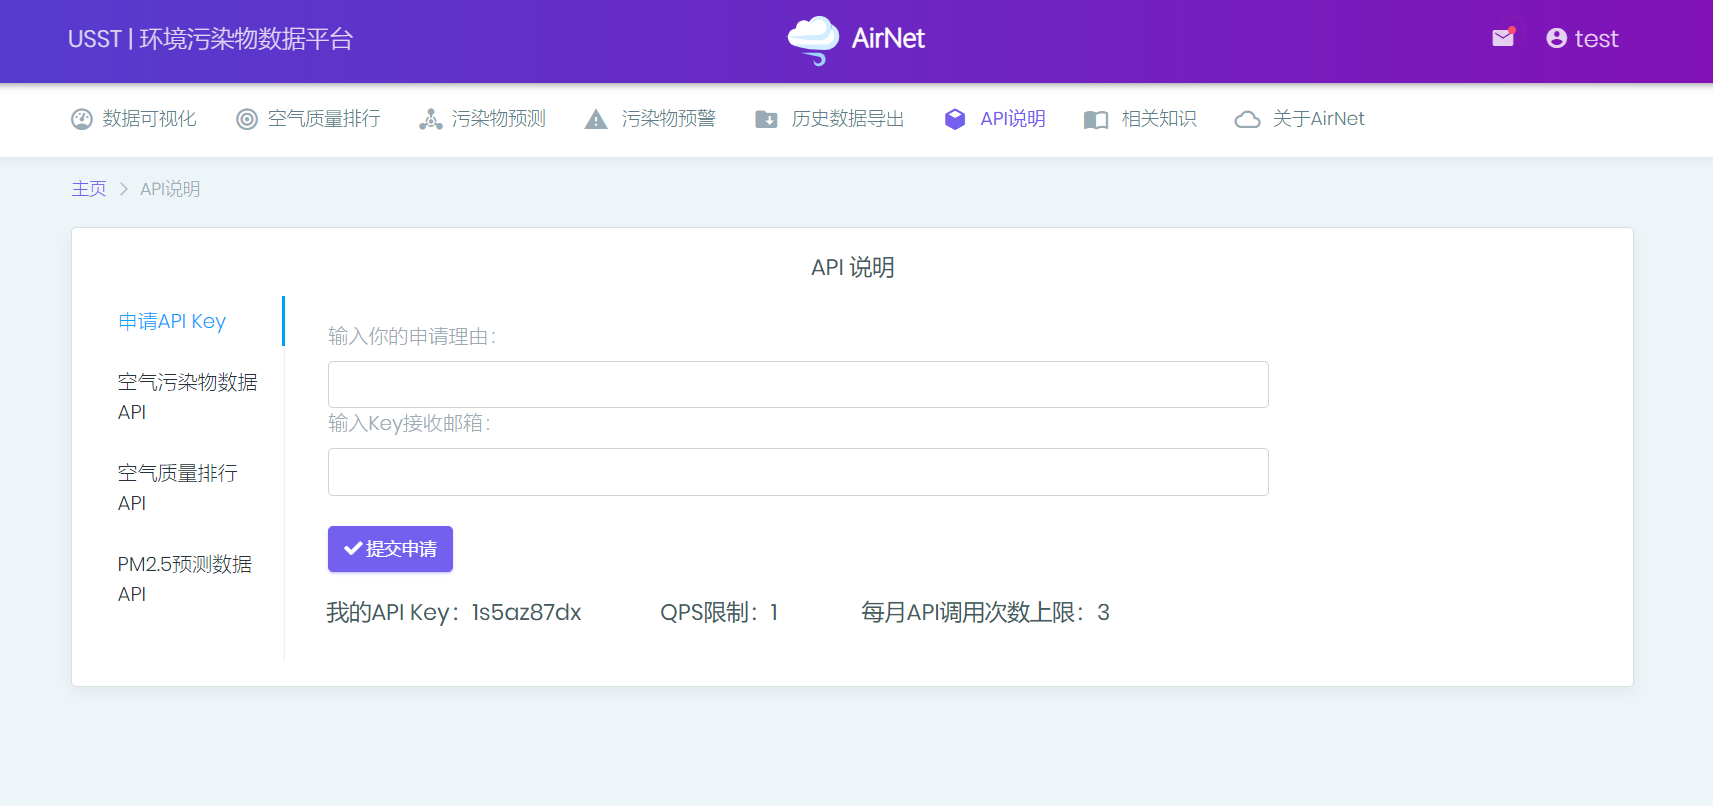
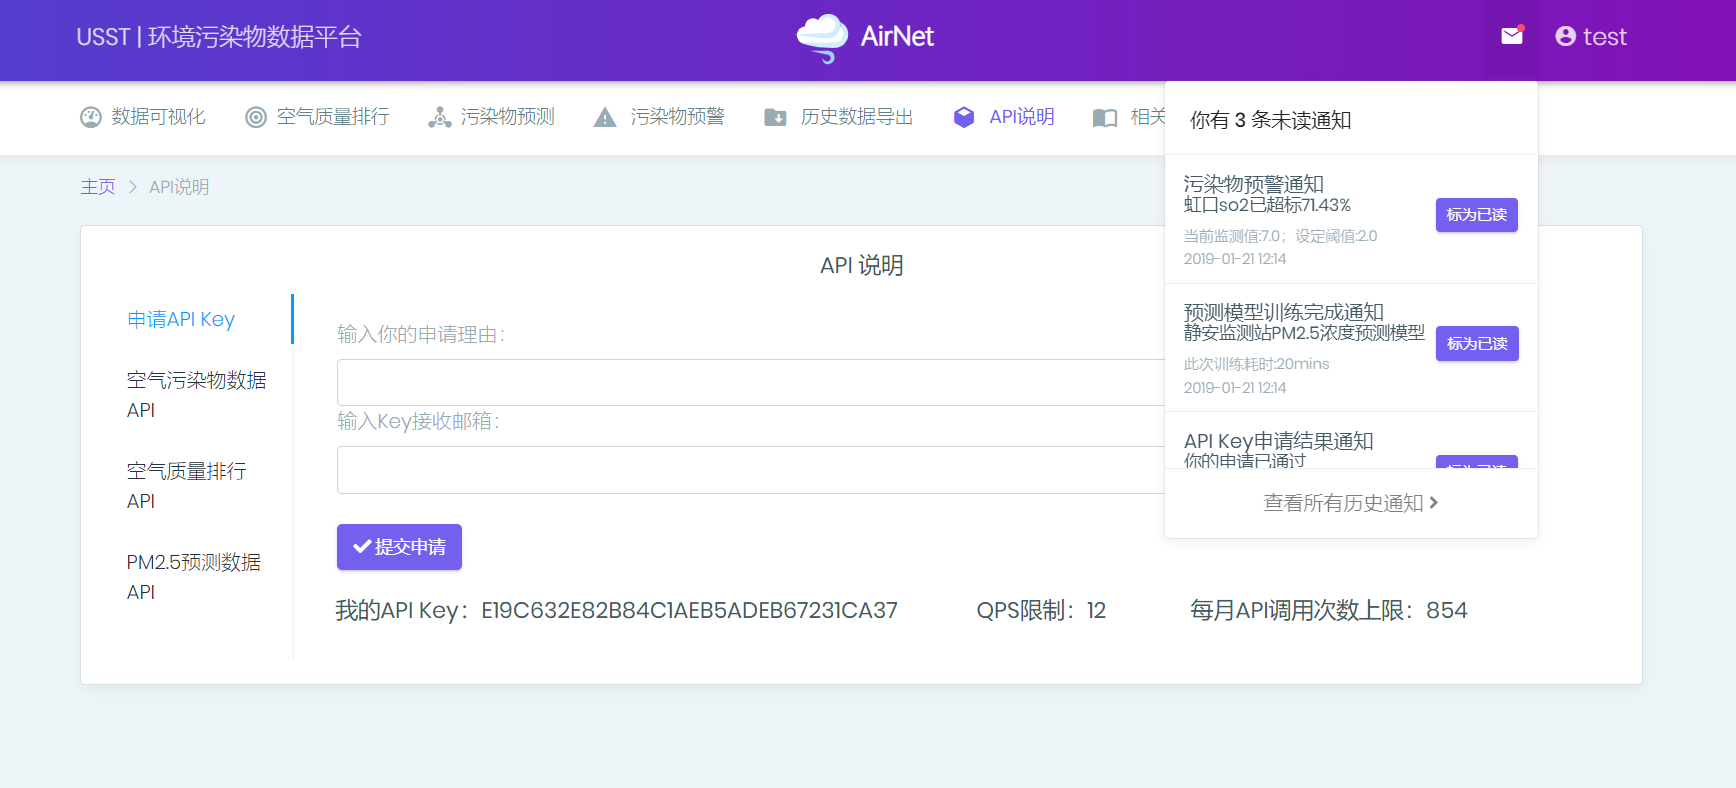
Fix notification bugs in api application module

diff --git a/airnet-main-service/src/main/java/com/marticles/airnet/mainservice/controller/AdminController.java b/airnet-main-service/src/main/java/com/marticles/airnet/mainservice/controller/AdminController.java
@@ -1,11 +1,9 @@
 package com.marticles.airnet.mainservice.controller;
 
-import com.marticles.airnet.mainservice.model.ApiApplication;
-import com.marticles.airnet.mainservice.model.Response;
-import com.marticles.airnet.mainservice.model.User;
-import com.marticles.airnet.mainservice.model.UserLocal;
+import com.marticles.airnet.mainservice.model.*;
 import com.marticles.airnet.mainservice.service.AdminService;
 import com.marticles.airnet.mainservice.service.ApiKeyService;
+import com.marticles.airnet.mainservice.service.NotificationService;
 import com.marticles.airnet.mainservice.service.UserService;
 import com.marticles.airnet.mainservice.util.JwtUtil;
 import lombok.extern.slf4j.Slf4j;
@@ -39,6 +37,9 @@ public class AdminController {
     private ApiKeyService apiKeyService;
 
     @Autowired
+    private NotificationService notificationService;
+
+    @Autowired
     private UserLocal userLocal;
 
     @GetMapping("")
@@ -66,7 +67,9 @@ public class AdminController {
     @GetMapping("/api-key")
     public String adminApiKey(Model model) {
         List<ApiApplication> apiApplicationList = apiKeyService.getApiApplication();
+        List<ApiKey> apiKeyList = apiKeyService.getAllApiKey();
         model.addAttribute("apiApplicationList", apiApplicationList);
+        model.addAttribute("apiKeyList", apiKeyList);
         return "/admin/admin_apikey";
     }
 
@@ -74,28 +77,24 @@ public class AdminController {
     @PostMapping("/key/{id}")
     public Response addApiKey(@PathVariable Integer id, @RequestBody ApiApplication apiApplication) throws Exception {
         Response response = new Response();
-        try{
+        try {
             apiKeyService.updateApplicationStatus(id, apiApplication.getStatus());
-            // 若同意申请
-            // TODO 发通知+邮件
             if (apiApplication.getStatus().equals(1)) {
-                // 拿到用户ID
                 apiKeyService.addApiKey(apiApplication.getUserId(), apiApplication.getPreSecondRequestLimit(), apiApplication.getMonthlyRequestLimit());
-                // 拒绝申请
-                // TODO 发通知+邮件
-            } else {
+                notificationService.addApiKeyNotification(apiApplication.getUserId(), apiApplication.getStatus());
 
+            } else {
+                notificationService.addApiKeyNotification(apiApplication.getUserId(), apiApplication.getStatus());
             }
             response.setCode(0);
             response.setMsg("success");
-        }catch (Exception e){
+        } catch (Exception e) {
             response.setCode(1);
             response.setMsg(e.getMessage());
         }
         return response;
 
     }
-
 
     @ResponseBody
     @DeleteMapping("/user/{userId}")

diff --git a/airnet-main-service/src/main/java/com/marticles/airnet/mainservice/service/ApiKeyService.java b/airnet-main-service/src/main/java/com/marticles/airnet/mainservice/service/ApiKeyService.java
@@ -1,6 +1,7 @@
 package com.marticles.airnet.mainservice.service;
 
 import com.marticles.airnet.mainservice.dao.ApiKeyDAO;
+import com.marticles.airnet.mainservice.dao.UserDAO;
 import com.marticles.airnet.mainservice.model.ApiApplication;
 import com.marticles.airnet.mainservice.model.ApiKey;
 import com.marticles.airnet.mainservice.model.UserLocal;
@@ -28,6 +29,9 @@ public class ApiKeyService {
     private ApiKeyDAO apiKeyDAO;
 
     @Autowired
+    private UserDAO userDAO;
+
+    @Autowired
     private UserLocal userLocal;
 
     public Integer addApiApplication(String reason, String sendEmail) {
@@ -43,6 +47,14 @@ public class ApiKeyService {
 
     public ApiKey getApiKey(Integer userId) {
         return apiKeyDAO.getApiKey(userId);
+    }
+
+    public List<ApiKey> getAllApiKey() {
+        List<ApiKey> apiKeyList = apiKeyDAO.getAllApiKey();
+        for (ApiKey apiKey : apiKeyList) {
+            apiKey.setUserName(userDAO.getUserById(apiKey.getUserId()).getName());
+        }
+        return apiKeyList;
     }
 
     public List<ApiApplication> getApiApplication() {
@@ -70,7 +82,7 @@ public class ApiKeyService {
         SecretKey secretKey = new SecretKeySpec(HMC_SECRET_KEY.getBytes(), "HmacMD5");
         Mac mac = Mac.getInstance("HmacMD5");
         mac.init(secretKey);
-        String key = byteToString(mac.doFinal(uniqueId.getBytes()));
+        String key = byteToString(mac.doFinal(uniqueId.getBytes())).toUpperCase();
         // API KEY已存在
         if (apiKeyDAO.countApiKey(userId) > 0) {
             apiKeyDAO.updateApiKey(userId, key, preSecondRequestLimit, monthlyRequestLimit);

diff --git a/airnet-main-service/src/main/java/com/marticles/airnet/mainservice/dao/ApiKeyDAO.java b/airnet-main-service/src/main/java/com/marticles/airnet/mainservice/dao/ApiKeyDAO.java
@@ -33,6 +33,13 @@ public interface ApiKeyDAO {
     @Select({"select * from api_key where user_id = #{userId}"})
     ApiKey getApiKey(@Param("userId") Integer userId);
 
+    @Results({@Result(column = "user_id", property = "userId"), @Result(column = "user_key", property = "userKey"),
+            @Result(column = "pre_second_request_limit", property = "preSecondRequestLimit"), @Result(column = "monthly_request_limit", property = "monthlyRequestLimit"),
+            @Result(column = "all_request_count", property = "allRequestCount")})
+    @Select({"select * from api_key order by id "})
+    List<ApiKey> getAllApiKey();
+
+
 
     @Update({"update api_application set status = #{status} where id = #{id}"})
     Integer updateApplicationStatus(@Param("id") Integer id, @Param("status") Integer status);
@@ -46,6 +53,6 @@ public interface ApiKeyDAO {
     Integer addApiKey(@Param("userId") Integer userId, @Param("key") String key, @Param("preSecondRequestLimit") Integer preSecondRequestLimit, @Param("monthlyRequestLimit") Integer monthlyRequestLimit);
 
 
-    @Update({"update api_key set user_key = #{key} where user_id = #{userId}"})
+    @Update({"update api_key set user_key = #{key} ,pre_second_request_limit=#{preSecondRequestLimit}, monthly_request_limit= #{monthlyRequestLimit} where user_id = #{userId}"})
     Integer updateApiKey(@Param("userId") Integer userId, @Param("key") String key, @Param("preSecondRequestLimit") Integer preSecondRequestLimit, @Param("monthlyRequestLimit") Integer monthlyRequestLimit);
 }

diff --git a/airnet-main-service/src/main/java/com/marticles/airnet/mainservice/service/NotificationService.java b/airnet-main-service/src/main/java/com/marticles/airnet/mainservice/service/NotificationService.java
@@ -1,0 +1,34 @@
+package com.marticles.airnet.mainservice.service;
+
+import com.marticles.airnet.mainservice.dao.NotificationDAO;
+import org.springframework.beans.factory.annotation.Autowired;
+import org.springframework.stereotype.Service;
+
+import java.util.Date;
+
+/**
+ * @author Marticles
+ * @description NotificationService
+ * @date 2019/3/22
+ */
+@Service
+public class NotificationService {
+
+    @Autowired
+    private NotificationDAO notificationDAO;
+
+    public void addApiKeyNotification(Integer userId, Integer status) {
+        String title = "API Key申请结果通知";
+        String subTitle = null;
+        String content = null;
+        if (status.equals(1)) {
+            subTitle = "你的申请已通过";
+            content = "请至API说明页中查看API Key";
+        } else {
+            subTitle = "你的申请已被拒绝";
+            content = "建议继续尝试申请";
+        }
+        notificationDAO.addNotification(userId, title, subTitle, content, 0, new Date());
+    }
+
+}

diff --git a/airnet-main-service/src/main/java/com/marticles/airnet/mainservice/dao/NotificationDAO.java b/airnet-main-service/src/main/java/com/marticles/airnet/mainservice/dao/NotificationDAO.java
@@ -1,0 +1,20 @@
+package com.marticles.airnet.mainservice.dao;
+
+import org.apache.ibatis.annotations.Insert;
+import org.apache.ibatis.annotations.Mapper;
+import org.apache.ibatis.annotations.Param;
+
+import java.util.Date;
+
+/**
+ * @author Marticles
+ * @description NotificationDAO
+ * @date 2019/3/22
+ */
+@Mapper
+public interface NotificationDAO {
+
+    @Insert({"insert into notification (user_id, title, sub_title, content, read_status, create_time) values (#{userId}, #{title}, #{subTitle}, #{content}, #{readStatus}, #{createTime})"})
+    Integer addNotification(@Param("userId")Integer userId, @Param("title")String title, @Param("subTitle")String subTitle, @Param("content")String content, @Param("readStatus")Integer readStatus, @Param("createTime")Date createTime);
+
+}

diff --git a/airnet-main-service/src/main/java/com/marticles/airnet/mainservice/service/UserService.java b/airnet-main-service/src/main/java/com/marticles/airnet/mainservice/service/UserService.java
@@ -17,7 +17,7 @@ import java.util.List;
 public class UserService {
 
     @Autowired
-    UserDAO userDAO;
+    private UserDAO userDAO;
 
     public int addUser(UserRequest user){
         return userDAO.addUser(user);
@@ -33,6 +33,10 @@ public class UserService {
 
     public void deleteUser(Integer userId){
         userDAO.deleteUser(userId);
+    }
+
+    public User getUserById(Integer userId){
+        return userDAO.getUserById(userId);
     }
 
     public void updatedUser(User user){

diff --git a/airnet-main-service/src/main/java/com/marticles/airnet/mainservice/dao/UserDAO.java b/airnet-main-service/src/main/java/com/marticles/airnet/mainservice/dao/UserDAO.java
@@ -28,4 +28,7 @@ public interface UserDAO {
 
     @Update({"update user set name = #{name}, email = #{email}, type = #{type} where id = #{id}"})
     Integer updatedUser(User user);
+
+    @Select({"select id, name, email, type from user where id = #{userId}"})
+    User getUserById(Integer userId);
 }

diff --git a/airnet-main-service/src/main/java/com/marticles/airnet/mainservice/model/ApiKey.java b/airnet-main-service/src/main/java/com/marticles/airnet/mainservice/model/ApiKey.java
@@ -15,4 +15,5 @@ public class ApiKey {
     private Integer preSecondRequestLimit;
     private Integer monthlyRequestLimit;
     private Integer allRequestCount;
+    private String userName;
 }

diff --git a/README.md b/README.md
@@ -107,7 +107,7 @@ api/v1/history?site={site}&pollutant={pollutant}&start={start_time}&end={end_tim
 
 | 字段             | 内容                                                         |
 | ---------------- | ------------------------------------------------------------ |
-| site             | 监测点                                                       |
+| site             | 监测点，如`jingan`、`yangpusipiao`,`pudongxinqu`等           |
 | time             | 污染物监测时间                                               |
 | city             | 监测点所属城市                                               |
 | aqi              | 空气质量指数(AQI)，即Air Quality Index，是定量描述空气质量状况的无纲量指数 |
@@ -217,11 +217,36 @@ api/v1/rank?area={area}&time={time}&order={order}}&key={api_key}
 
 #### PM2.5 预测数据 API
 
+URL：
+
+```
+api/v1/forecast?site={site}&start={start_time}&end={end_time}&key={api_key}
+```
+
+参数含义如下：
+
+|URL/参数|含义|
+|:--|:--|
+|site|监测点，如`jingan`、`yangpusipiao`,`pudongxinqu`等|
+|start|预测开始时间，如`2018-01-01 01:00:00`|
+|end|预测结束时间，如`2018-01-01 01:00:00`|
+|key|API Key|
+
+```
+# 示例
+api/v1/forecast?site=yangpusipiao&start=2019-12-01 12:00:00&end=2019-12-20 12:00:00&key=api_key=52hD10R9vT2BX7or3
+
+# 返回JSON
+TODO
+```
+
 #### API Key 的生成策略
+
+考虑到分布式环境下采用 UUID 直接生成 Key 可能会导致 Key 重复的问题，最终的生成策略采用 Snowflake 算法生成唯一 ID， 再对 ID 进行 HmacMD5 加密生成 API Key。
 
 #### API 接口限流
 
-基于 Zuul 与  Guava RateLimiter 实现，若每秒请求次数超过最大每秒请求次数，或当月累计请求次数达到每月最大请求次数，则会触发限流。
+基于 Zuul 与  Guava RateLimiter 实现，若用户的每秒请求次数超过 QPS 限制，或当月累计请求次数达到每月最大请求次数，则会触发限流。
 
 ![](/img/ratelimit.png)
 
@@ -286,3 +311,6 @@ api/v1/rank?area={area}&time={time}&order={order}}&key={api_key}
 
 ----------------------
 ![](/img/admin_user.png)
+
+----------------------
+![](/img/admin_api.png)
